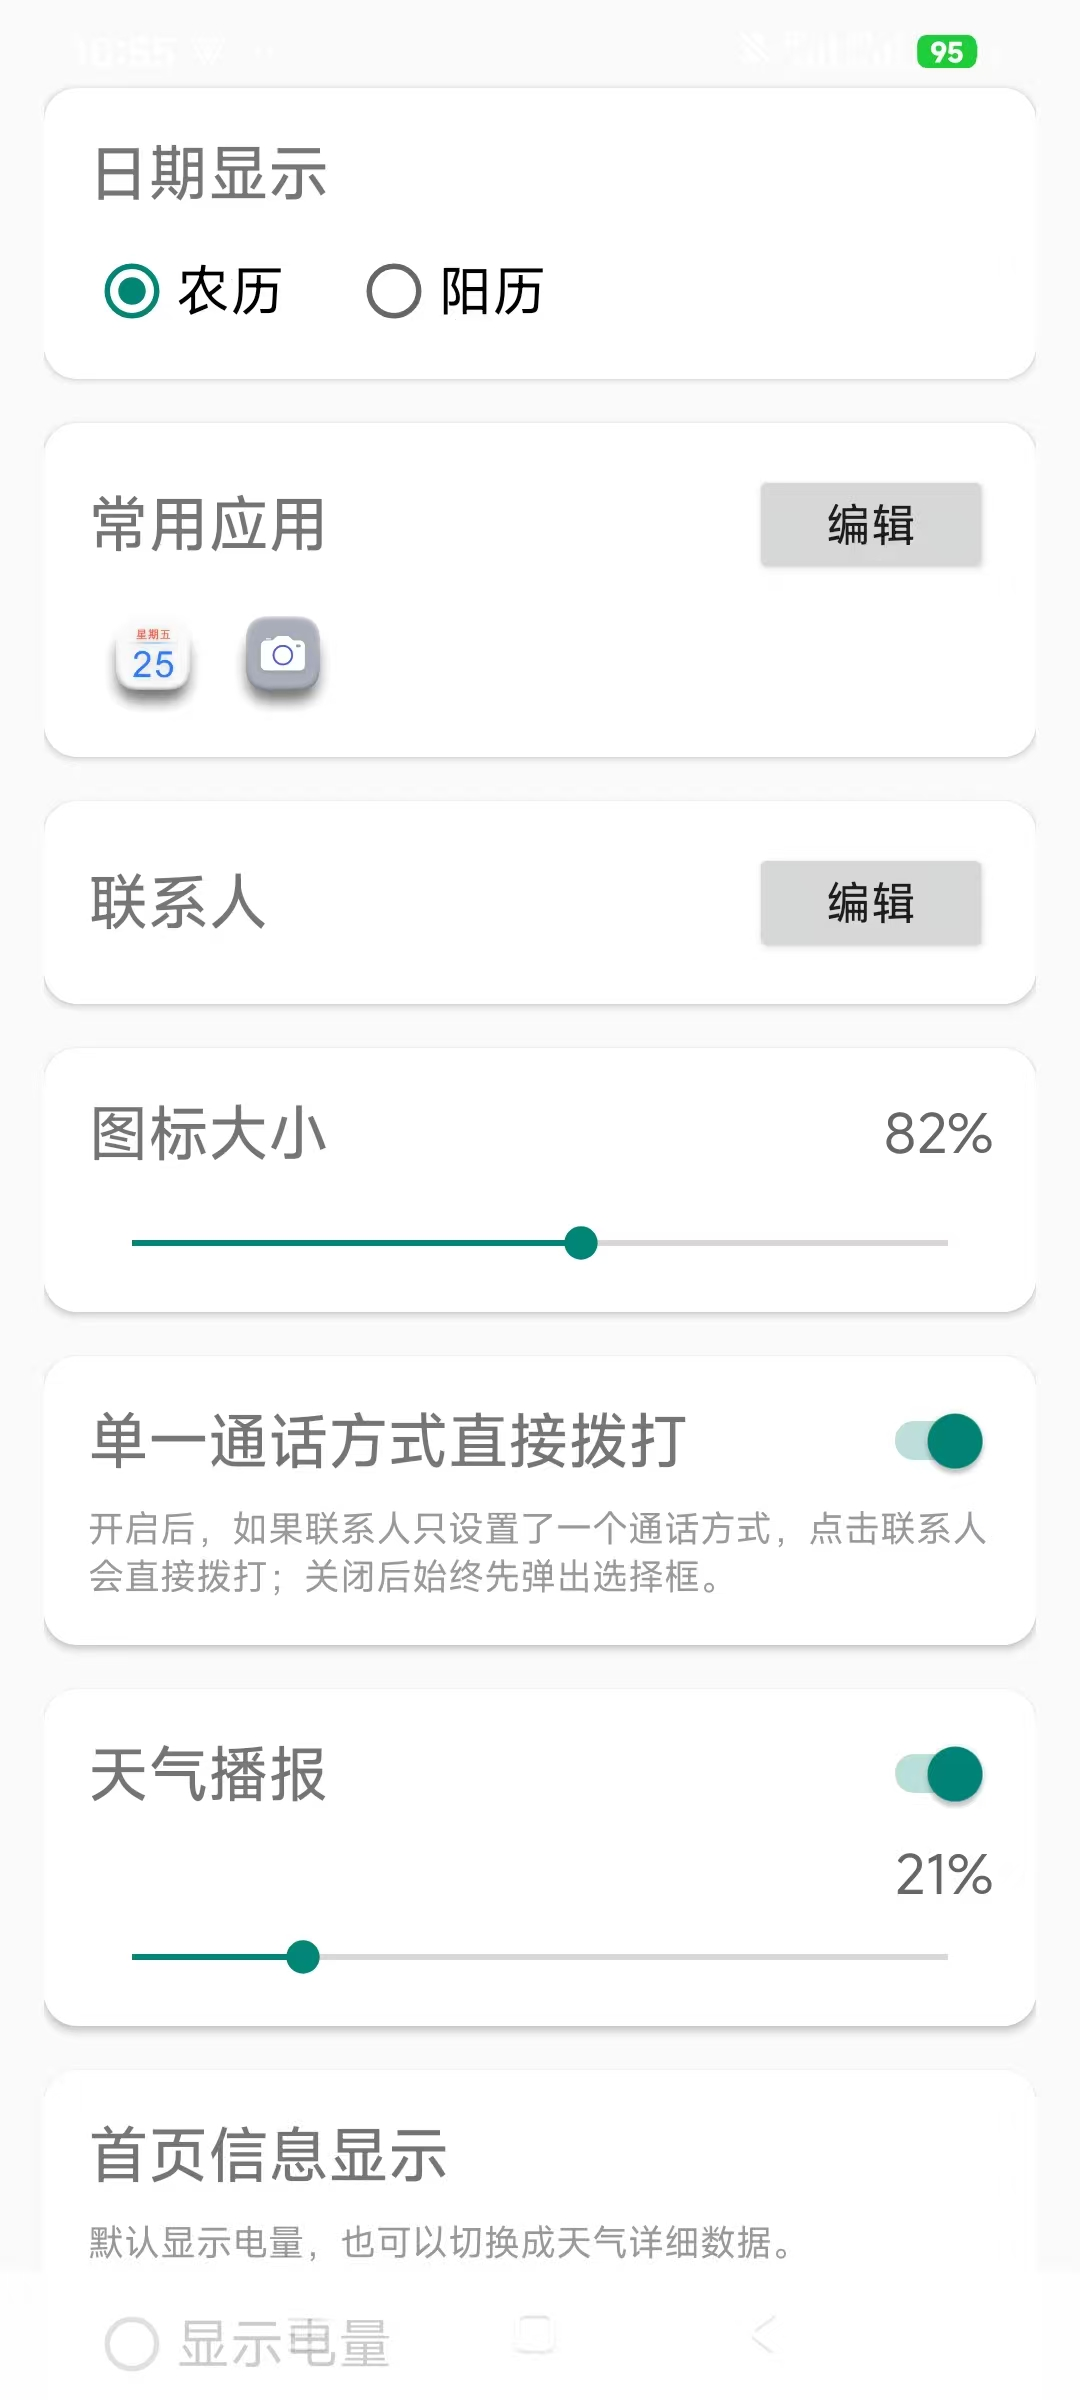
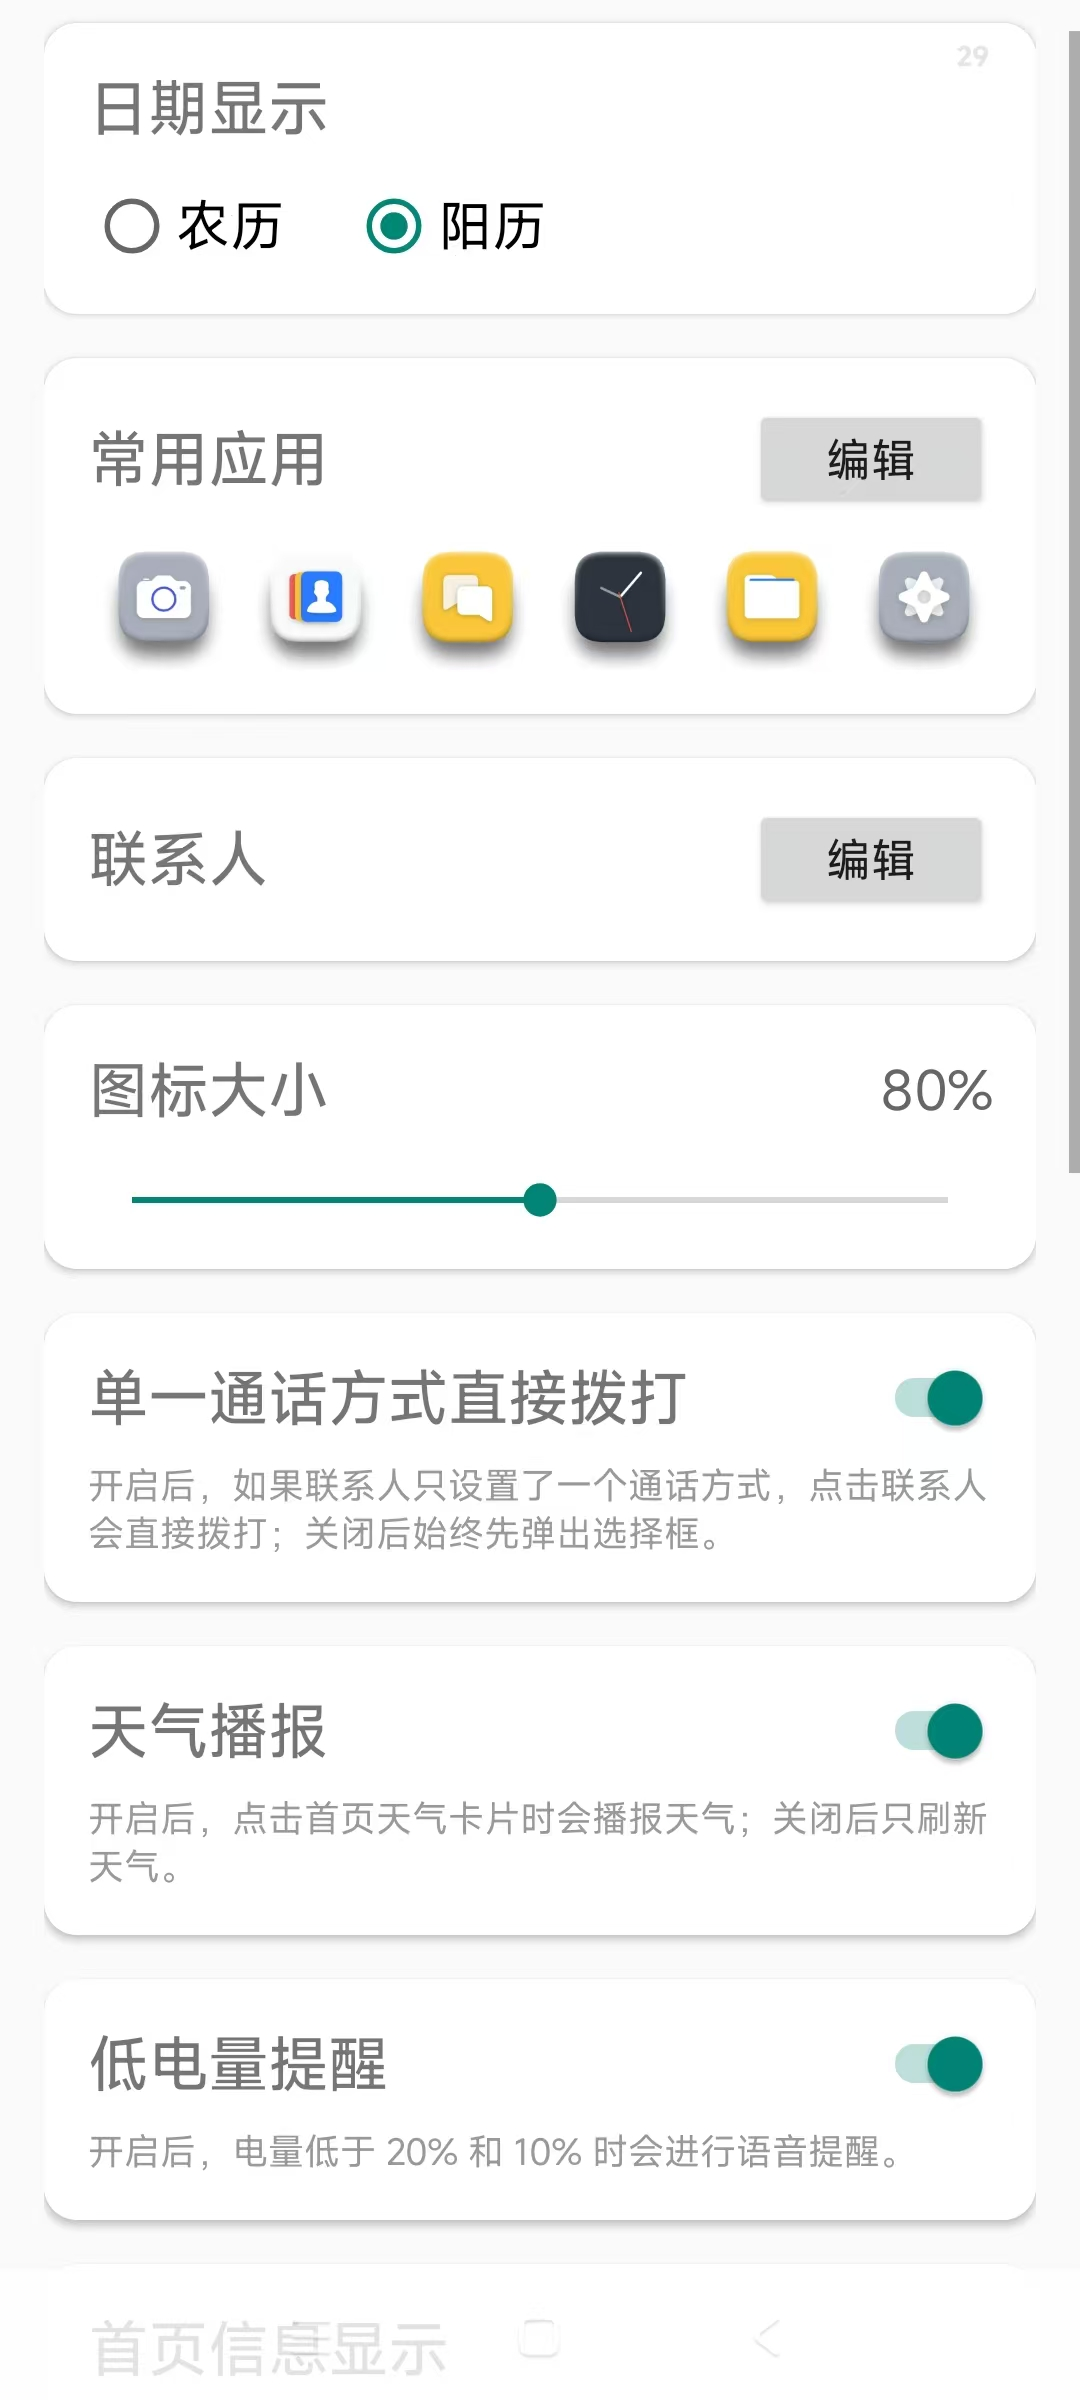
docs: README外链修改为本地图片

diff --git a/README.md b/README.md
@@ -90,13 +90,19 @@
 ---
 
 ## 🌐运行界面-测试机型（MI 12s）
-<img src="docs/images/item-001.png" height="500" />
-<img src="docs/images/item-002.png" height="500" />
-<img src="docs/images/item-003.png" height="500" />
-<img src="docs/images/item-004.png" height="500" />
-<img src="docs/images/item-005.png" height="500" />
-<img src="docs/images/item-006.png" height="500" />
-<img src="docs/images/item-007.png" height="500" />
+<p align="center">
+  <img src="docs/images/item-001.png" height="420" hspace="10" vspace="8" />
+  <img src="docs/images/item-002.png" height="420" hspace="10" vspace="8" />
+  <img src="docs/images/item-003.png" height="420" hspace="10" vspace="8" />
+</p>
+<p align="center">
+  <img src="docs/images/item-004.png" height="420" hspace="10" vspace="8" />
+  <img src="docs/images/item-005.png" height="420" hspace="10" vspace="8" />
+  <img src="docs/images/item-006.png" height="420" hspace="10" vspace="8" />
+</p>
+<p align="center">
+  <img src="docs/images/item-007.png" height="420" hspace="10" vspace="8" />
+</p>
 
 ## 🚀 部署与安装说明
 
@@ -111,7 +117,7 @@
   ```bash
   git clone https://github.com/su-Insight/MoreTalk.git
   cd MoreTalk
-
+  
   ```
 
 * **构建安装**：在 Android Studio 中打开项目，等待 Gradle 同步，点击 Run 'app' 安装至真机（无障碍服务需真机环境）。
@@ -144,4 +150,3 @@
 <p align="center">
   <img src="docs/images/donation-qr.jpg" alt="MoreTalk 打赏码" width="360" />
 </p>
-

diff --git a/README_en.md b/README_en.md
@@ -85,13 +85,19 @@
 
 
 ## 🌐Operation Interface - Test Device (MI 12s)
-<img src="docs/images/item-001.png" height="500" />
-<img src="docs/images/item-002.png" height="500" />
-<img src="docs/images/item-003.png" height="500" />
-<img src="docs/images/item-004.png" height="500" />
-<img src="docs/images/item-005.png" height="500" />
-<img src="docs/images/item-006.png" height="500" />
-<img src="docs/images/item-007.png" height="500" />
+<p align="center">
+  <img src="docs/images/item-001.png" height="420" hspace="10" vspace="8" />
+  <img src="docs/images/item-002.png" height="420" hspace="10" vspace="8" />
+  <img src="docs/images/item-003.png" height="420" hspace="10" vspace="8" />
+</p>
+<p align="center">
+  <img src="docs/images/item-004.png" height="420" hspace="10" vspace="8" />
+  <img src="docs/images/item-005.png" height="420" hspace="10" vspace="8" />
+  <img src="docs/images/item-006.png" height="420" hspace="10" vspace="8" />
+</p>
+<p align="center">
+  <img src="docs/images/item-007.png" height="420" hspace="10" vspace="8" />
+</p>
 
 
 ## 🚀 Deployment & Installation
